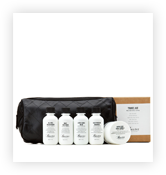
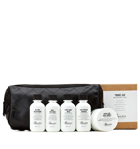
Сделала сетку

Changed region(s): [[0.0, 0.5369, 1.0, 0.8859]]

diff --git a/css/style.css b/css/style.css
@@ -8,9 +8,247 @@ body {
 
 h1 {
   font-size: 30px;
+  margin-bottom: 25px;
+  background: #135aaa;
+  line-height: 32px;
 }
 
 h2 {
   font-size: 24px;
 }
 
+html,
+body {
+  min-width: 1122px;/*Откуда это значение*-1122*/
+  min-height: 1160px;/*Почему? - 1750px*/
+  margin: 0;
+  padding: 0;
+}
+
+.clearfix::after {
+  content: "";
+  display: table;
+  clear: both;
+}
+
+.container {
+  width: 940px;
+  margin: 0 auto;
+  padding: 0 10px;
+}
+
+.main-header {
+  margin-bottom: 56px;
+  background: #135aaa;
+}
+
+.main-navigation {
+  float: left;
+  width: 780px;
+
+    /* Только для оформления сетки */
+  min-height: 70px;
+}
+
+.main-navigation li {
+  display: inline-block;
+  vertical-align: top;
+}
+
+.user-block {
+  float: right;
+  width: 140px;
+
+    /* Только для оформления сетки */
+  min-height: 70px;
+}
+
+.index-logo {
+  width: 368px;
+  min-height: 204px;
+  margin-right: auto;
+  margin-left: auto;
+  margin-bottom: 25px;
+}
+
+.features {
+  margin-bottom: 80px;
+}
+
+.features-item {
+  float: left;
+  width: 300px;
+  margin-right: 20px;
+
+  /* Только для оформления сетки */
+  min-height: 175px;
+}
+
+.features-item:last-child {
+  margin-right: 0;
+}
+
+.index-content {
+  margin-bottom: 35px;
+  padding: 50px 80px;
+}
+
+.index-content-left {
+  float: left;
+  width: 380px;
+
+  /* Только для оформления сетки */
+  min-height: 330px;
+}
+
+.index-content-right {
+  float: right;
+  width: 300px;
+
+  /* Только для оформления сетки */
+  min-height: 330px;
+}
+
+.main-footer,
+.footer {
+  margin-top: 65px; /*?*/
+  padding-top: 60px;
+  padding-bottom: 40px;
+  background: #135aaa;
+}
+
+.footer {
+  margin-top: 50px;
+}
+
+.footer-contacts {
+  float: left;
+  width: 320px;
+  margin-right: 60px;
+
+  /* Только для оформления сетки */
+  min-height: 90px;
+}
+
+.footer-social {
+  float: left;
+  width: 180px;
+
+  /* Только для оформления сетки */
+  min-height: 90px;
+}
+
+.footer-copyright {
+  float: right;
+  width: 180px;
+
+  /* Только для оформления сетки */
+  min-height: 90px;
+}
+
+.catalog-filter {
+  float: left;
+  width: 220px;
+  margin-right: 20px;
+  background: #a3c3e6;
+
+  /* Только для оформления сетки */
+  min-height: 590px;
+}
+
+.catalog  {
+  float:right;
+  width: 700px;
+  background: #a3c3e6;
+
+  /* Только для оформления сетки */
+  min-height: 590px;
+}
+
+.catalog-item {
+  float:left;
+  width: 220px;
+  margin-right: 20px;
+  margin-bottom: 20px;
+  background: #135aaa;
+
+  /* Только для оформления сетки */
+  min-height: 287px;
+}
+
+.catalog-item:nth-child(3n) {
+  margin-right: 0;
+}
+
+.catalog-item:nth-child(4),
+.catalog-item:nth-child(5),
+.catalog-item:nth-child(6) {
+  margin-bottom: 45px;
+}
+
+.paginator {
+  background: #135aaa;
+  clear:both;
+  margin-left:240px;
+}
+
+.breadcrumbs  {
+  margin-bottom: 55px;
+  width: 630px;
+  background: #135aaa;
+
+  /* Только для оформления сетки */
+  min-height: 16px;
+}
+
+.breadcrumbs  li {
+  display: inline-block;
+}
+
+.item-gallery {
+  float:left;
+  width: 460px;
+  background: #135aaa;
+  margin-right: 80px;
+
+  /* Только для оформления сетки */
+  min-height: 670px;
+}
+
+.item-information {
+  float:right;
+  width: 400px;
+  background: #135aaa;
+
+  /* Только для оформления сетки */
+  min-height: 670px;
+}
+
+.gallery-main {
+  margin-bottom: 10px;
+}
+
+.gallery-image {
+    float:left;
+    width: 140px;
+    margin-right: 20px;
+}
+
+.gallery-image:last-child {
+    margin-right: 0px;
+}
+
+.item-availability,
+.item-article  {
+  float: left;
+  width: 180px;
+  margin-right: 40px;
+  margin-bottom: 40px;
+  margin-top: 24px;
+  min-height: 16px;
+  background: #e9d3c0;
+}
+
+.item-article {
+  margin-right: 0px;
+}

diff --git a/barbershop-item.html b/barbershop-item.html
@@ -7,8 +7,8 @@
   </head>
   <body>
     <header class="main-header">
-      <div class="container">
-        <nav class="navigation">
+      <div class="container clearfix">
+        <nav class="main-navigation">
           <ul>
             <li>
               <a href="#"><img src="img/img-header-logo.png" width="111" height="24" alt="Barbershop logo"></a>
@@ -35,7 +35,7 @@
         </div>
       </div>
     </header>
-    <main class="container">
+    <main class="container clearfix">
       <h1>Набор для путешествий "Baxter of California"</h1>
       <ul class="breadcrumbs">
         <li>
@@ -53,12 +53,12 @@
       </ul>
       <section class="item-gallery">
          <div class="gallery-main">
-           <img class="main-image" src="img/img-item-main.png" alt="Набор для путешествий (Основная картинка)" width="460" height="498">
+           <img class="main-image" src="img/img-item-main.png" alt="Набор для путешествий (Основная картинка)" width="460" height="500">
          </div>
-         <div class="gallery-other">
-           <img class="gallery-image" src="img/img-item-small1.png" alt="Набор для путешествий (1)" width="140" height="149">
-           <img class="gallery-image" src="img/img-item-small2.png" alt="Набор для путешествий (косметичка)" width="140" height="149">
-           <img class="gallery-image" src="img/img-item-small3.png" alt="Набор для путешествий (2)" width="140" height="149">
+         <div class="gallery-other clearfix">
+           <img class="gallery-image" src="img/img-item-main.png" alt="Набор для путешествий (1)" width="140" height="150">
+           <img class="gallery-image" src="img/img-item-small2.png" alt="Набор для путешествий (косметичка)" width="140" height="150">
+           <img class="gallery-image" src="img/img-item-small3.png" alt="Набор для путешествий (2)" width="140" height="150">
          </div>
       </section>
       <div class="item-information">
@@ -89,8 +89,8 @@
         </ul>
       </div>
     </main>
-    <footer class="main-footer">
-      <div class="container">
+    <footer class="footer">
+      <div class="container clearfix">
         <section class="footer-contacts">
           Барбершоп «Бородинский»<br>
           Адрес: г. Санкт-Петербург, Б. Конюшенная, д. 19/8<br>

diff --git a/index.html b/index.html
@@ -7,7 +7,7 @@
   </head>
   <body>
     <header class="main-header">
-      <div class="container">
+      <div class="container clearfix">
         <nav class="main-navigation">
           <ul>
             <li>
@@ -36,7 +36,7 @@
       <div class="index-logo">
         <img src="img/img-index-logo.png" width="368" height="204" alt="Барбершоп «Бородинский»">
       </div>
-      <section class="features">
+      <section class="features clearfix">
         <div class="features-item">
           <b class="features-name">Быстро</b>
           <p>Мы делаем свою работу быстро! Два часа пролетят незаметно и вы — счастливый обладатель стильной стрижки-минутки!</p>
@@ -50,7 +50,7 @@
           <p>Наши мастера — профессионалы своего дела и не могут стоить дешево. К тому же, разве цена не дает определенный статус?</p>
         </div>
       </section>
-      <div class="index-content">
+      <div class="index-content clearfix">
         <div class="index-content-left">
           <h2 class="index-content-title">Новости</h2>
           <ul class="news-preview">
@@ -76,7 +76,7 @@
           </div>
         </div>
       </div>
-      <div class="index-content">
+      <div class="index-content clearfix">
         <div class="index-content-left">
           <h2 class="index-content-title">Контактная информация</h2>
           <p>
@@ -106,7 +106,7 @@
       </div>
     </main>
     <footer class="main-footer">
-      <div class="container">
+      <div class="container clearfix">
         <section class="footer-contacts">
           Барбершоп «Бородинский»<br>
           Адрес: г. Санкт-Петербург, Б. Конюшенная, д. 19/8<br>

diff --git a/barbershop-shop.html b/barbershop-shop.html
@@ -7,8 +7,8 @@
   </head>
   <body>
     <header class="main-header">
-      <div class="container">
-        <nav class="navigation">
+      <div class="container clearfix">
+        <nav class="main-navigation">
           <ul>
             <li>
               <a href="#"><img src="img/img-header-logo.png" width="111" height="24" alt="Barbershop logo"></a>
@@ -140,8 +140,8 @@
         <a href="#next" class="page">4</a>
       </div>
     </main>
-    <footer class="main-footer">
-      <div class="container">
+    <footer class="footer">
+      <div class="container clearfix">
         <section class="footer-contacts">
           Барбершоп «Бородинский»<br>
           Адрес: г. Санкт-Петербург, Б. Конюшенная, д. 19/8<br>
